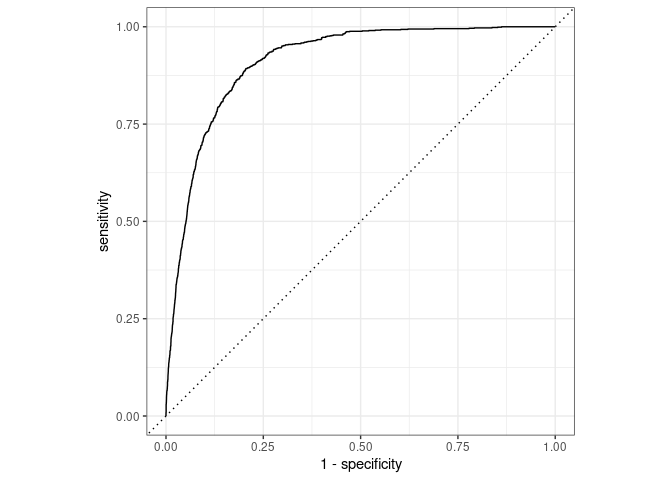
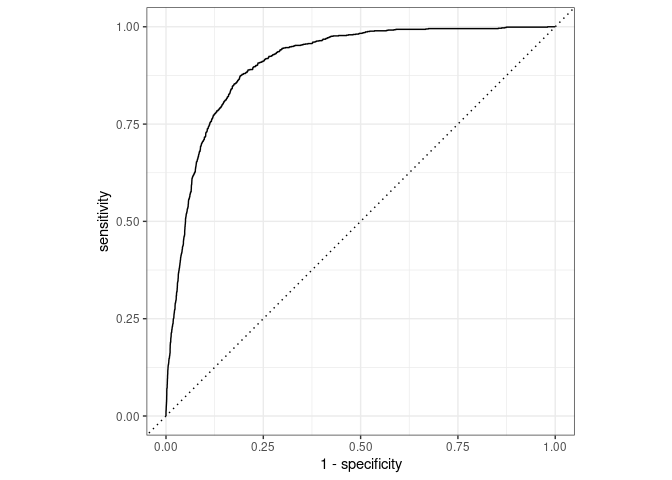
Added Comments to make Code reproduction clearer

diff --git a/Logistic Model/Logistic_Model.md b/Logistic Model/Logistic_Model.md
@@ -2,29 +2,13 @@ Logistic Model
 ================
 
 ``` r
-banking_train<- read_delim("/cloud/project/data/Banking Dataset.csv",
-            delim = ";", escape_double = FALSE, trim_ws = TRUE)
-```
-
-    ## Rows: 45211 Columns: 17
-
-    ## ── Column specification ────────────────────────────────────────────────────────
-    ## Delimiter: ";"
-    ## chr (10): job, marital, education, default, housing, loan, contact, month, p...
-    ## dbl  (7): age, balance, day, duration, campaign, pdays, previous
-
-    ## 
-    ## ℹ Use `spec()` to retrieve the full column specification for this data.
-    ## ℹ Specify the column types or set `show_col_types = FALSE` to quiet this message.
-
-``` r
 banking_train <- banking_train %>%
-  mutate(y = factor(if_else(y == "yes", 1, 0)))
+  mutate(y = factor(if_else(y == "yes", 1, 0))) #Changed Outcome Variable to Factor Type
 ```
 
 ``` r
-set.seed(45211)
-######
+set.seed(45221)
+#80-20 Split of Data
 banking_split <- initial_split(banking_train, prop = 0.8)
 reduced_train_df <-training(banking_split)
 banking_test <-testing(banking_split)
@@ -40,19 +24,21 @@ nrow(banking_test)
     ## [1] 9043
 
 ``` r
+#Model Recipe
 banking_rec<- recipe(
   y ~ .,
   data = reduced_train_df
 )
 
 banking_rec <- banking_rec %>%
-  step_rm(day, pdays) %>%
-  step_cut(campaign, previous, breaks = c(0, 1)) %>%
-  step_cut(age, breaks = c(25,40,65)) %>%
-  step_cut(balance, breaks = c(-0.1, 0.1, 1000, 10000)) %>%
-  step_cut(duration, breaks = c(60, 120, 180, 240, 300, 360, 420, 480, 540, 600)) %>%
-  step_dummy(all_nominal(),-all_outcomes()) %>%
-  step_zv(all_predictors())
+  step_rm( pdays) %>% #Removed this variable due to low impact on model.
+  step_cut(campaign, previous, breaks = c(0, 1)) %>% #Only care about values x = 0 and x >= 1 for these variables.
+  step_cut(age, breaks = c(25,40,65)) %>% #Created age groups
+  step_cut(balance, breaks = c(-0.1, 0.1, 1000, 10000)) %>% #Created balance groups
+  step_cut(day, breaks = c(10,20)) %>% #Categorized days variable into beginning, middle, or end of the month.
+  step_cut(duration, breaks = c(60, 120, 180, 240, 300, 360, 420, 480, 540, 600)) %>% #Divided Calls by duration in minutes.
+  step_dummy(all_nominal(),-all_outcomes()) %>% #Created Dummy Variables
+  step_zv(all_predictors()) #Removed Zero Variance Variables
 ```
 
 ``` r
@@ -72,33 +58,25 @@ banking_wflow <-workflow() %>%
 tidy(banking_fit) 
 ```
 
-    ## # A tibble: 55 × 5
+    ## # A tibble: 57 × 5
     ##    term              estimate std.error statistic  p.value
     ##    <chr>                <dbl>     <dbl>     <dbl>    <dbl>
-    ##  1 (Intercept)        -4.72      0.409    -11.5   1.10e-30
-    ##  2 age_X.25.40.       -0.621     0.105     -5.91  3.51e- 9
-    ##  3 age_X.40.65.       -0.641     0.113     -5.67  1.40e- 8
-    ##  4 age_X.65.95.       -0.218     0.179     -1.22  2.22e- 1
-    ##  5 job_blue.collar    -0.319     0.0811    -3.94  8.24e- 5
-    ##  6 job_entrepreneur   -0.266     0.138     -1.93  5.35e- 2
-    ##  7 job_housemaid      -0.505     0.152     -3.32  8.93e- 4
-    ##  8 job_management     -0.147     0.0834    -1.77  7.73e- 2
-    ##  9 job_retired         0.0381    0.114      0.334 7.39e- 1
-    ## 10 job_self.employed  -0.309     0.123     -2.50  1.24e- 2
-    ## # … with 45 more rows
+    ##  1 (Intercept)       -5.05       0.434   -11.6    2.84e-31
+    ##  2 age_X.25.40.      -0.603      0.107    -5.64   1.75e- 8
+    ##  3 age_X.40.65.      -0.601      0.115    -5.23   1.66e- 7
+    ##  4 age_X.65.95.       0.00493    0.178     0.0277 9.78e- 1
+    ##  5 job_blue.collar   -0.272      0.0818   -3.33   8.70e- 4
+    ##  6 job_entrepreneur  -0.339      0.142    -2.38   1.72e- 2
+    ##  7 job_housemaid     -0.362      0.153    -2.37   1.80e- 2
+    ##  8 job_management    -0.121      0.0839   -1.45   1.48e- 1
+    ##  9 job_retired        0.0634     0.115     0.551  5.81e- 1
+    ## 10 job_self.employed -0.245      0.125    -1.96   5.02e- 2
+    ## # … with 47 more rows
 
 ``` r
 banking_pred <- predict(banking_fit, banking_test, type = "prob") %>%
   bind_cols(banking_test %>% select(y))
-```
 
-    ## Warning: There are new levels in a factor: NA
-
-    ## Warning: There are new levels in a factor: NA
-
-    ## Warning: There are new levels in a factor: NA
-
-``` r
 banking_pred %>%
   roc_curve(
     truth = y,
@@ -120,4 +98,21 @@ banking_pred %>%
     ## # A tibble: 1 × 3
     ##   .metric .estimator .estimate
     ##   <chr>   <chr>          <dbl>
-    ## 1 roc_auc binary         0.911
+    ## 1 roc_auc binary         0.908
+
+``` r
+cutoff <- 0.5
+banking_pred %>%
+  mutate(
+    subscribed = if_else(y == 1, "Client Subscribed", "Client did not Subscribe"),
+    subscribed_pred = if_else(.pred_1>cutoff, "Client Predicted to Subscribe", "Client Predicted to Not Subscribe") )%>%
+      count(subscribed_pred, subscribed) %>%
+      pivot_wider(names_from = subscribed, values_from = n) %>%
+      kable(col.names = c("","Client did not Subscribe", "Client Subscribed")
+  )
+```
+
+|                                   | Client did not Subscribe | Client Subscribed |
+|:----------------------------------|-------------------------:|------------------:|
+| Client Predicted to Not Subscribe |                     7731 |               690 |
+| Client Predicted to Subscribe     |                      247 |               375 |
